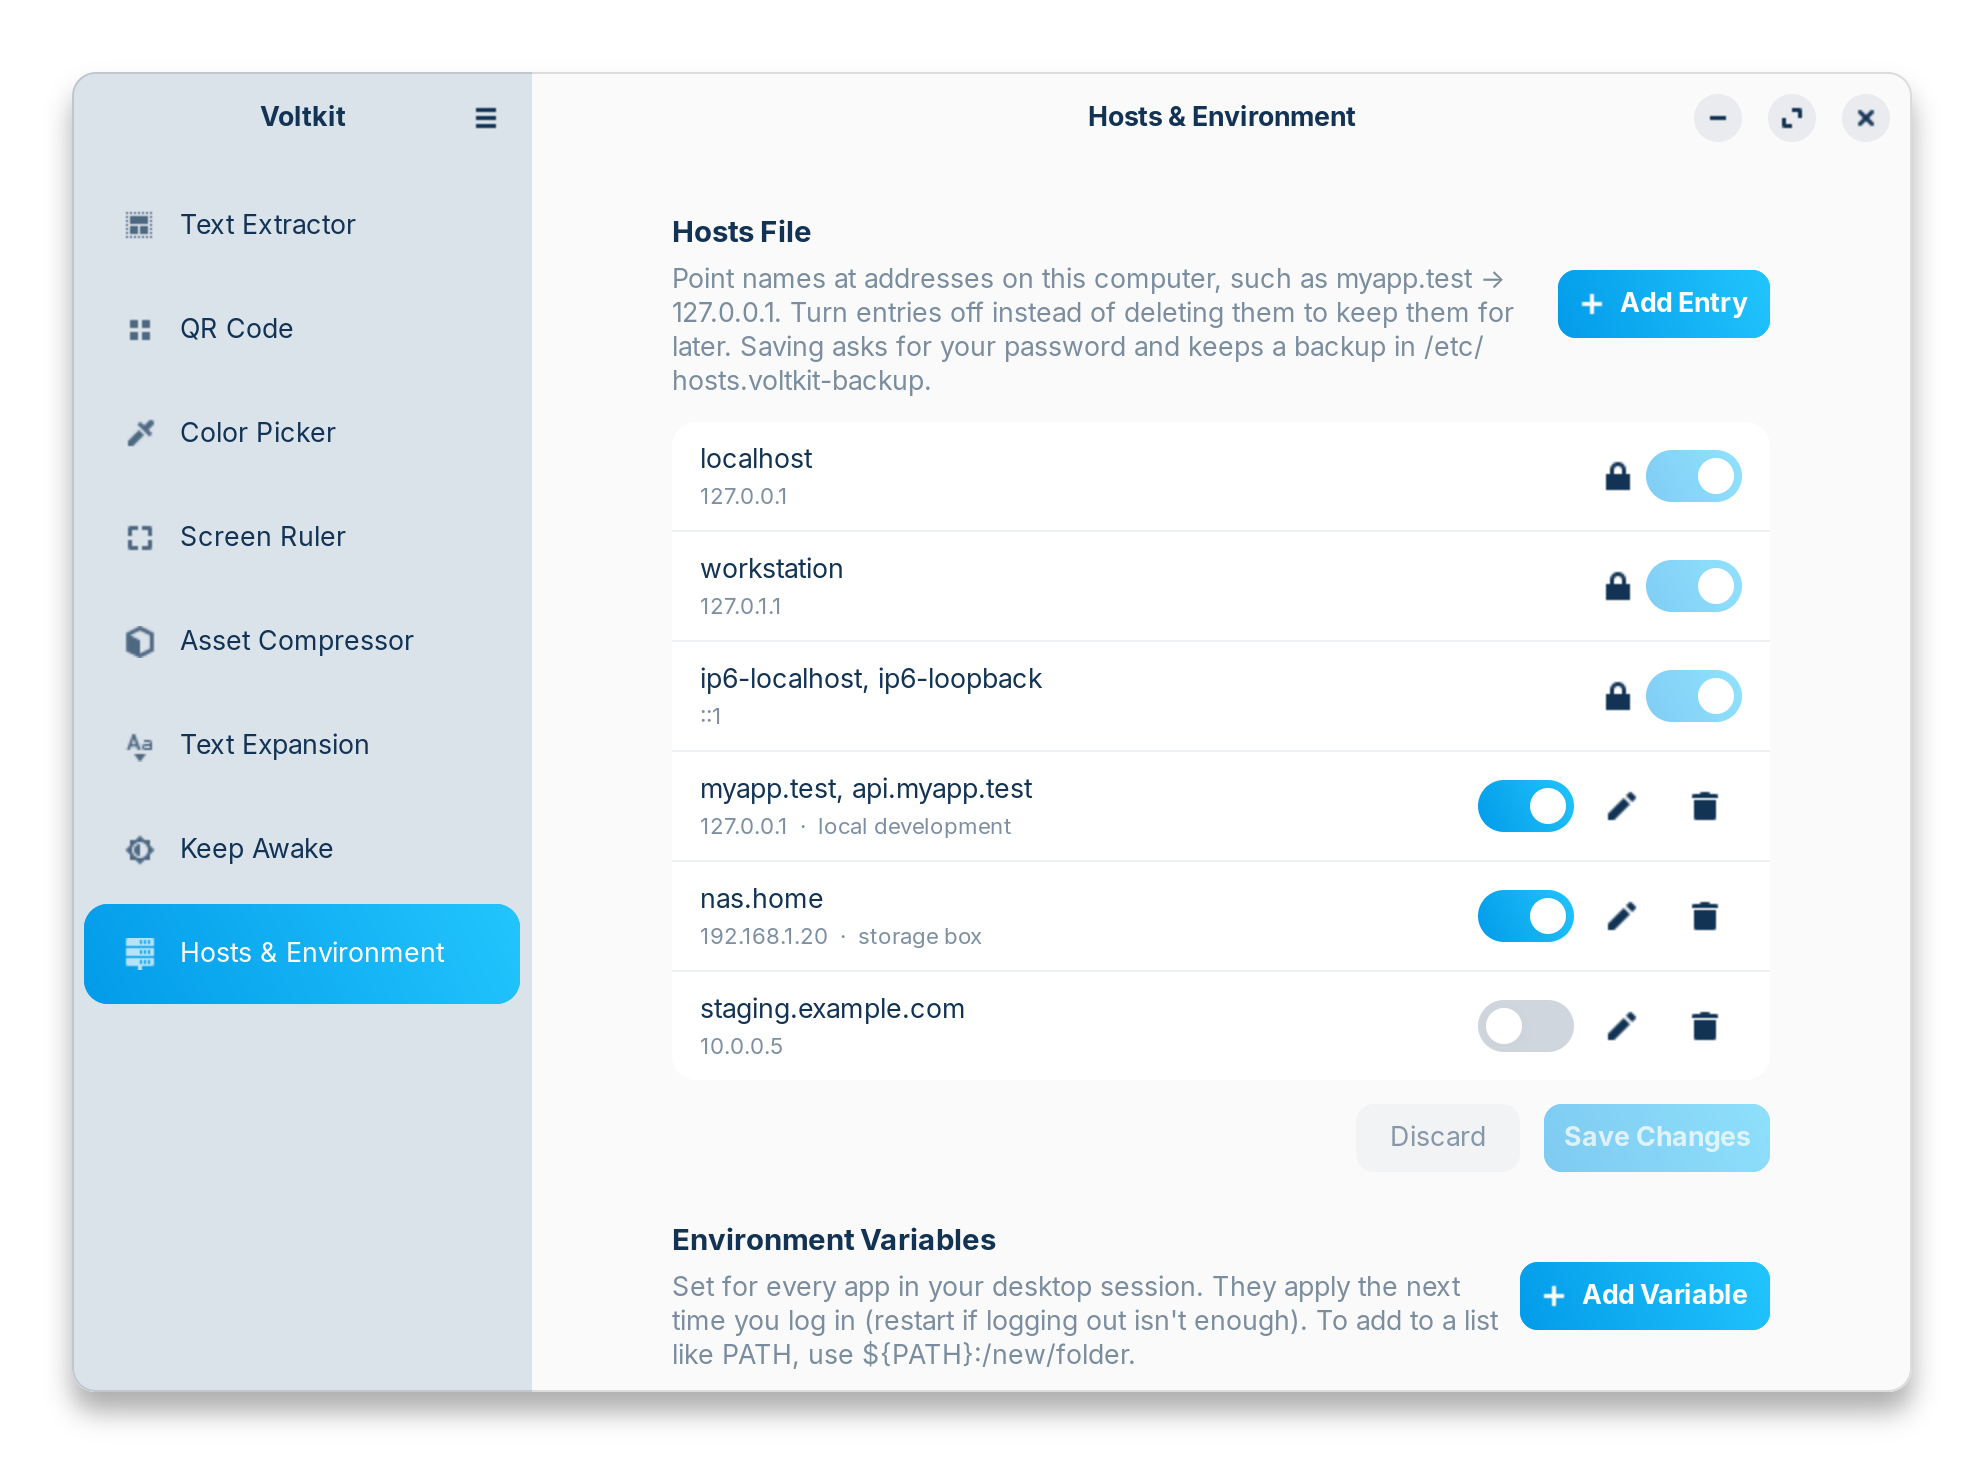
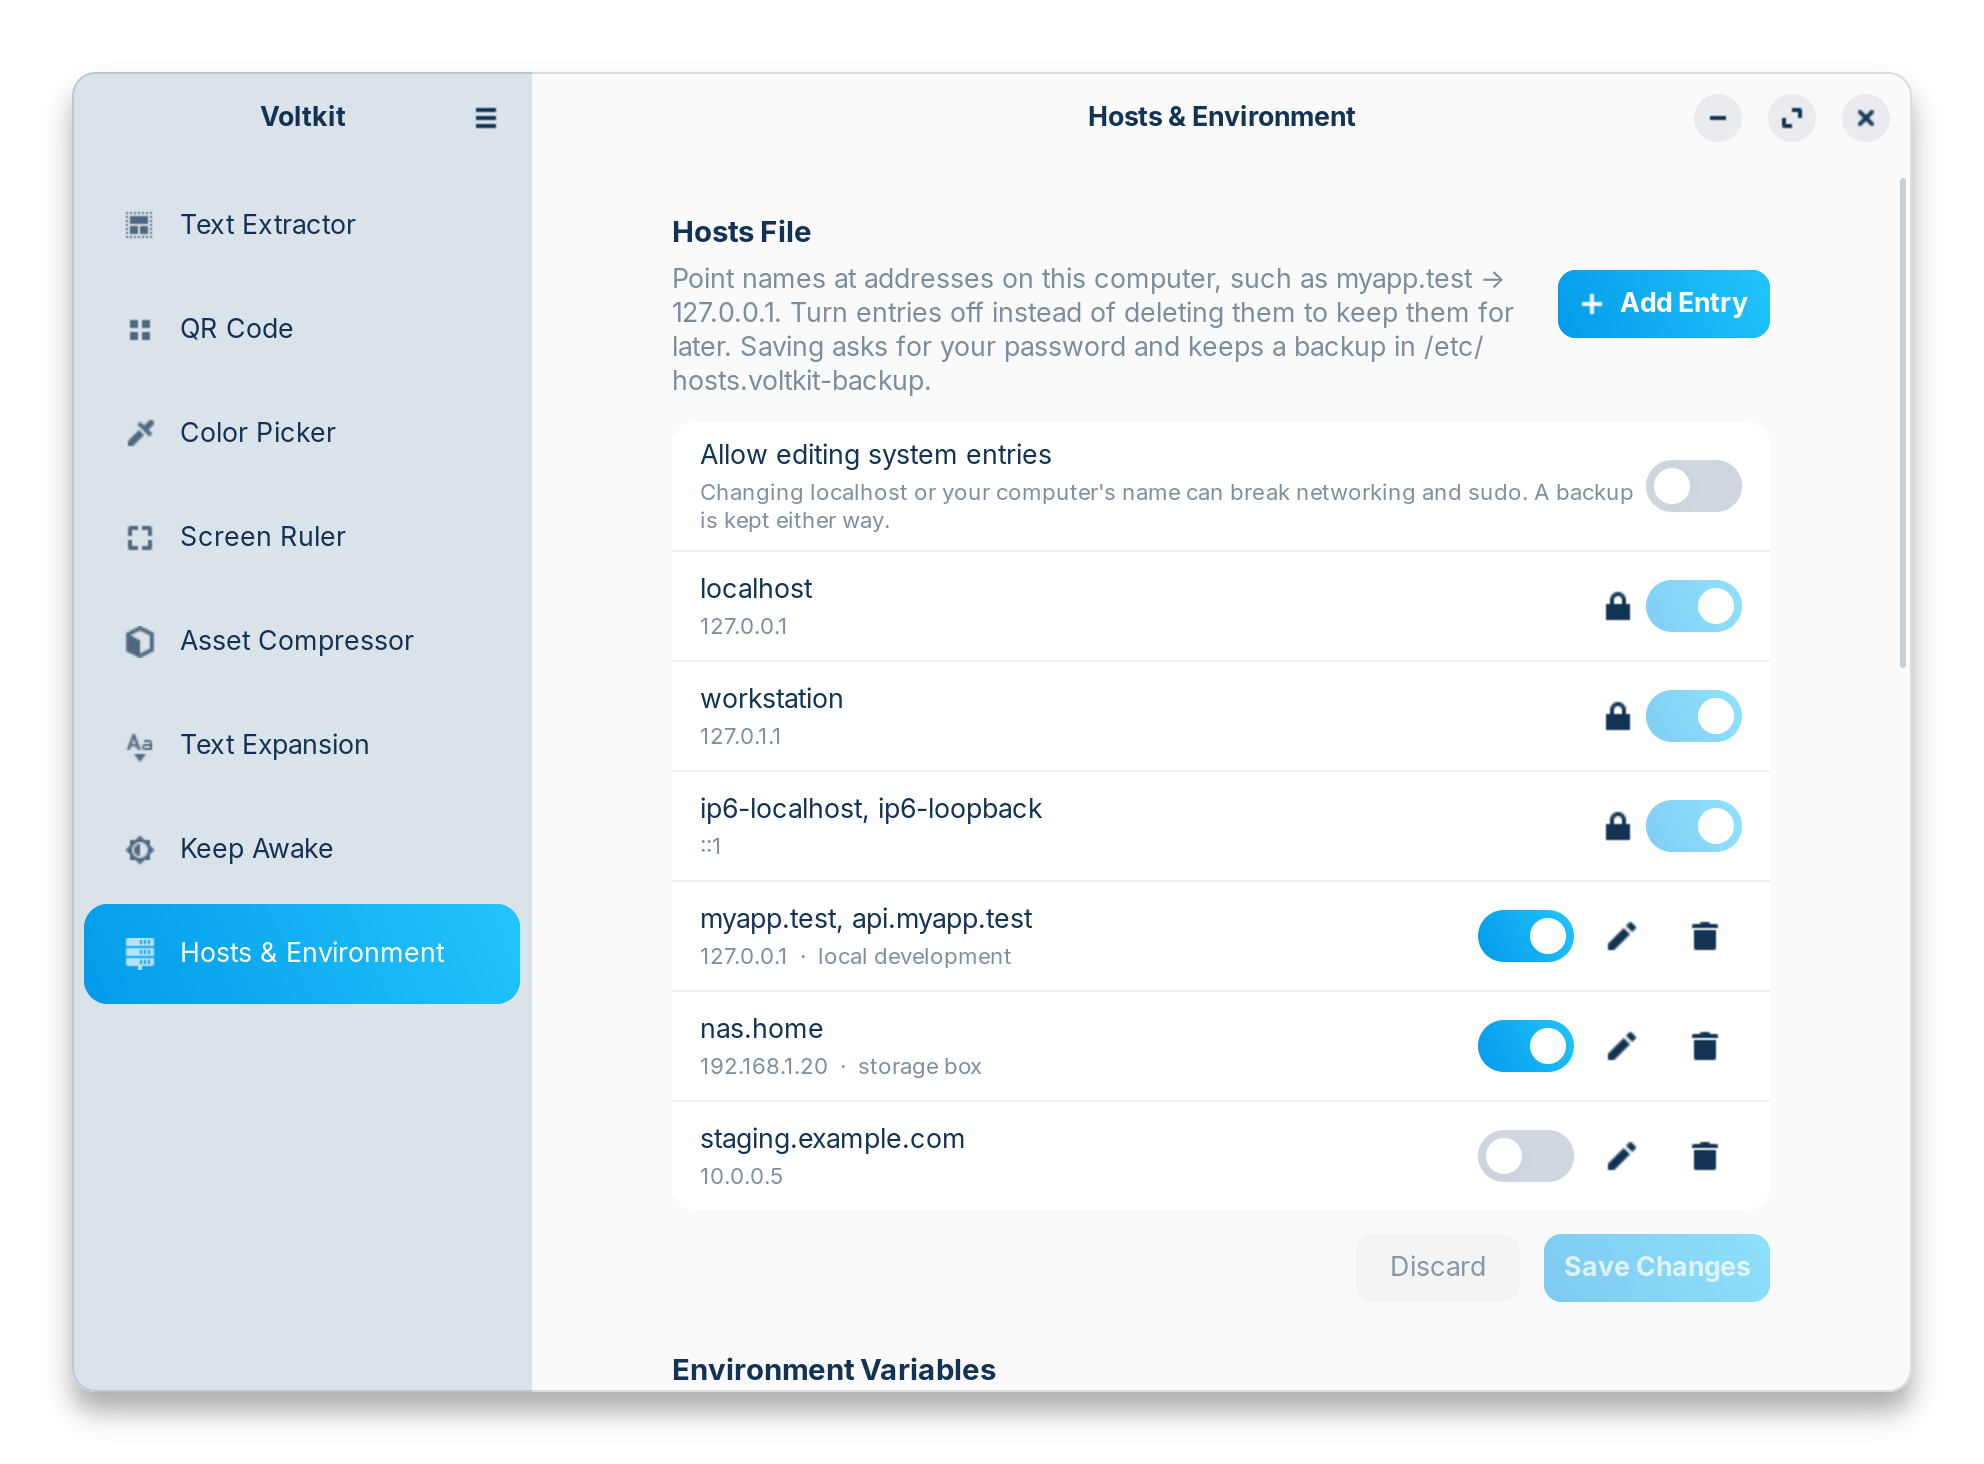
Fix in-app QR scan and Open Ruler; edit system hosts and session vars
QR "Scan from Screen" and OCR "Capture Region" minimized the window
before capturing, and GNOME doesn't raise a minimized window on an
app's own request, so results landed in a hidden window. They now leave
the window in place; GNOME's screenshot tool covers the screen anyway.

"Open Ruler" (and the snippet picker's Open) started a new process
whose window opened behind the others: GNOME raises new windows only
with an activation token. The click's token is now passed along via
XDG_ACTIVATION_TOKEN, and the ruler waits briefly so the control
center has finished minimizing before the screenshot.

Hosts File gains an "Allow editing system entries" switch; system
entries stay locked until it's on. Environment Variables lists the
variables the session already has (filterable, with session plumbing
like DBUS_SESSION_BUS_ADDRESS hidden) and an Override button that opens
the editor with the current value. Screenshots run with a clean
environment so real variables never appear in them.

diff --git a/src/system_ui.rs b/src/system_ui.rs
@@ -17,6 +17,7 @@ pub fn page(toasts: &adw::ToastOverlay) -> gtk::Widget {
     let env = EnvEditor::new(toasts);
     page.add(&hosts.group);
     page.add(&env.group);
+    page.add(&env.session_group);
     // Rows only hold weak references; the page keeps the editors alive.
     page.connect_destroy(move |_| {
         let _ = (&hosts, &env);
@@ -33,6 +34,8 @@ struct HostsEditor {
     /// Unsaved changes: saving needs the administrator password, so edits are
     /// collected and saved together.
     dirty: Cell<bool>,
+    /// System entries are locked unless the user turns this on.
+    unlocked: Cell<bool>,
     save: gtk::Button,
     discard: gtk::Button,
     toasts: adw::ToastOverlay,
@@ -57,9 +60,22 @@ impl HostsEditor {
             rows: RefCell::default(),
             file: RefCell::new(HostsFile::default()),
             dirty: Cell::new(false),
+            unlocked: Cell::new(false),
             save,
             discard,
             toasts: toasts.clone(),
+        });
+        let unlock = adw::SwitchRow::builder()
+            .title("Allow editing system entries")
+            .subtitle("Changing localhost or your computer's name can break networking and sudo. A backup is kept either way.")
+            .build();
+        editor.group.add(&unlock);
+        let weak = Rc::downgrade(&editor);
+        unlock.connect_active_notify(move |s| {
+            with(&weak, |e| {
+                e.unlocked.set(s.is_active());
+                e.rebuild();
+            })
         });
         editor.reload();
 
@@ -117,7 +133,7 @@ impl HostsEditor {
                 .valign(gtk::Align::Center)
                 .tooltip_text(if entry.enabled { "On" } else { "Off" })
                 .build();
-            if entry.is_system() {
+            if entry.is_system() && !self.unlocked.get() {
                 // Shown for completeness, but changing these breaks networking or sudo.
                 row.add_suffix(
                     &gtk::Image::builder()
@@ -232,6 +248,10 @@ impl HostsEditor {
 
 struct EnvEditor {
     group: adw::PreferencesGroup,
+    /// Variables the session already has from elsewhere, offered for overriding.
+    session_group: adw::PreferencesGroup,
+    session_rows: RefCell<Vec<gtk::Widget>>,
+    search: gtk::SearchEntry,
     rows: RefCell<Vec<gtk::Widget>>,
     vars: RefCell<Vec<Var>>,
     toasts: adw::ToastOverlay,
@@ -252,14 +272,63 @@ impl EnvEditor {
             toast(toasts, format!("{e:#}"));
             Vec::new()
         });
-        let editor = Rc::new(Self { group, rows: RefCell::default(), vars: RefCell::new(vars), toasts: toasts.clone() });
+        let search = gtk::SearchEntry::builder().placeholder_text("Filter variables").margin_bottom(6).build();
+        let session_group = adw::PreferencesGroup::builder()
+            .title("Already in Your Session")
+            .description(
+                "Set by the system or your shell. Override one to give it a new value from Voltkit. A value set in \
+                 ~/.bashrc still wins in terminals.",
+            )
+            .build();
+        session_group.add(&search);
+        let editor = Rc::new(Self {
+            group,
+            session_group,
+            session_rows: RefCell::default(),
+            search,
+            rows: RefCell::default(),
+            vars: RefCell::new(vars),
+            toasts: toasts.clone(),
+        });
         editor.rebuild();
         let weak = Rc::downgrade(&editor);
-        add.connect_clicked(move |b| with_env(&weak, |e| e.edit(b, None)));
+        add.connect_clicked(move |b| with_env(&weak, |e| e.edit(b, None, None)));
+        let weak = Rc::downgrade(&editor);
+        editor.search.connect_search_changed(move |_| with_env(&weak, |e| e.rebuild_session()));
         editor
     }
 
+    /// Lists the session's variables that Voltkit doesn't set itself.
+    fn rebuild_session(self: &Rc<Self>) {
+        for row in self.session_rows.borrow_mut().drain(..) {
+            self.session_group.remove(&row);
+        }
+        let query = self.search.text().to_lowercase();
+        let managed: Vec<String> = self.vars.borrow().iter().map(|v| v.name.clone()).collect();
+        let mut session: Vec<(String, String)> = std::env::vars()
+            .filter(|(name, _)| !envvars::is_session_plumbing(name) && !managed.contains(name))
+            .filter(|(name, value)| query.is_empty() || name.to_lowercase().contains(&query) || value.to_lowercase().contains(&query))
+            .collect();
+        session.sort();
+        let mut rows = self.session_rows.borrow_mut();
+        for (name, value) in session {
+            let row = adw::ActionRow::builder()
+                .title(glib::markup_escape_text(&name))
+                .subtitle(glib::markup_escape_text(&value))
+                .subtitle_lines(1)
+                .build();
+            let override_button = gtk::Button::builder().label("Override").valign(gtk::Align::Center).build();
+            row.add_suffix(&override_button);
+            let weak = Rc::downgrade(self);
+            let prefill = Var { name, value };
+            override_button.connect_clicked(move |b| with_env(&weak, |e| e.edit(b, None, Some(prefill.clone()))));
+            self.session_group.add(&row);
+            rows.push(row.upcast());
+        }
+    }
+
     fn rebuild(self: &Rc<Self>) {
+        self.rebuild_session();
         for row in self.rows.borrow_mut().drain(..) {
             self.group.remove(&row);
         }
@@ -285,7 +354,7 @@ impl EnvEditor {
             row.add_suffix(&edit);
             row.add_suffix(&delete);
             let weak = Rc::downgrade(self);
-            edit.connect_clicked(move |b| with_env(&weak, |e| e.edit(b, Some(index))));
+            edit.connect_clicked(move |b| with_env(&weak, |e| e.edit(b, Some(index), None)));
             let weak = Rc::downgrade(self);
             delete.connect_clicked(move |_| with_env(&weak, |e| e.delete(index)));
             self.group.add(&row);
@@ -323,8 +392,10 @@ impl EnvEditor {
         self.toasts.add_toast(undo);
     }
 
-    fn edit(self: &Rc<Self>, parent: &impl IsA<gtk::Widget>, index: Option<usize>) {
-        let existing = index.and_then(|i| self.vars.borrow().get(i).cloned());
+    /// Opens the editor on a Voltkit variable (`index`), or on a new one,
+    /// optionally filled in from a session variable being overridden.
+    fn edit(self: &Rc<Self>, parent: &impl IsA<gtk::Widget>, index: Option<usize>, prefill: Option<Var>) {
+        let existing = index.and_then(|i| self.vars.borrow().get(i).cloned()).or(prefill);
         let others: Vec<String> =
             self.vars.borrow().iter().enumerate().filter(|(i, _)| Some(*i) != index).map(|(_, v)| v.name.clone()).collect();
         let fields = [
@@ -334,7 +405,7 @@ impl EnvEditor {
         let weak = Rc::downgrade(self);
         form_dialog(
             parent.as_ref(),
-            if existing.is_some() { "Edit Variable" } else { "New Variable" },
+            if index.is_some() { "Edit Variable" } else if existing.is_some() { "Override Variable" } else { "New Variable" },
             &fields,
             move |values| {
                 let name = values[0].trim();

diff --git a/src/app.rs b/src/app.rs
@@ -148,6 +148,21 @@ pub(crate) fn shortcut_label(accel: &str) -> String {
     }
 }
 
+/// Starts `voltkit ARGS` for a tool with its own window (ruler, snippet picker),
+/// passing an activation token from the click. GNOME raises a new window only
+/// with such a token; without it the window opened behind the others.
+pub(crate) fn spawn_window_tool(widget: &impl IsA<gtk::Widget>, args: &[&str]) {
+    let Ok(exe) = std::env::current_exe() else { return };
+    let mut cmd = std::process::Command::new(exe);
+    cmd.args(args);
+    if let Some(token) = widget.display().app_launch_context().startup_notify_id(None::<&gio::AppInfo>, &[]) {
+        cmd.env("XDG_ACTIVATION_TOKEN", token.as_str()).env("DESKTOP_STARTUP_ID", token.as_str());
+    }
+    if let Ok(mut child) = cmd.spawn() {
+        std::thread::spawn(move || child.wait());
+    }
+}
+
 pub(crate) fn toast(toasts: &adw::ToastOverlay, msg: impl AsRef<str>) {
     toasts.add_toast(adw::Toast::new(msg.as_ref()));
 }
@@ -308,18 +323,12 @@ fn ocr_page(config: &Config, toasts: &adw::ToastOverlay) -> gtk::Widget {
     let toasts = toasts.clone();
     button.connect_clicked(move |button| {
         let (button, view, toasts, lang) = (button.clone(), view.clone(), toasts.clone(), lang.clone());
-        let window = button.root().and_downcast::<gtk::Window>();
-        // Keep our own window out of the capture.
-        if let Some(w) = &window {
-            w.minimize();
-        }
+        // The window stays put: GNOME won't bring back a minimized window on its
+        // own, so the result would land in a hidden window.
         button.set_sensitive(false);
         glib::spawn_future_local(async move {
             let result = gio::spawn_blocking(move || portal::block_on(ocr::extract_text(&lang))).await;
             button.set_sensitive(true);
-            if let Some(w) = &window {
-                w.present();
-            }
             match result {
                 Ok(Ok(text)) => {
                     view.buffer().set_text(&text);
@@ -529,14 +538,11 @@ fn ruler_page(config: &Config) -> gtk::Widget {
         .css_classes(["pill", "suggested-action"])
         .build();
     open.connect_clicked(|button| {
-        let Ok(exe) = std::env::current_exe() else { return };
-        let window = button.root().and_downcast::<gtk::Window>();
+        // Get the activation token before minimizing, while this window has focus.
+        spawn_window_tool(button, &["ruler"]);
         // Keep this window out of the screenshot the ruler measures on.
-        if let Some(w) = &window {
+        if let Some(w) = button.root().and_downcast::<gtk::Window>() {
             w.minimize();
-        }
-        if let Ok(mut child) = std::process::Command::new(exe).arg("ruler").spawn() {
-            std::thread::spawn(move || child.wait());
         }
     });
     adw::StatusPage::builder()

diff --git a/src/modules/envvars.rs b/src/modules/envvars.rs
@@ -27,6 +27,20 @@ pub fn valid_name(name: &str) -> bool {
         && chars.all(|c| c.is_ascii_alphanumeric() || c == '_')
 }
 
+/// Variables that wire the running session together (bus addresses, display
+/// sockets, session IDs). They're set per login, and overriding them breaks the
+/// session, so the editor doesn't offer them.
+pub fn is_session_plumbing(name: &str) -> bool {
+    const EXACT: &[&str] = &[
+        "DBUS_SESSION_BUS_ADDRESS", "DISPLAY", "WAYLAND_DISPLAY", "XAUTHORITY", "SESSION_MANAGER",
+        "DESKTOP_STARTUP_ID", "XDG_ACTIVATION_TOKEN", "INVOCATION_ID", "JOURNAL_STREAM", "MANAGERPID",
+        "SYSTEMD_EXEC_PID", "PWD", "OLDPWD", "SHLVL", "_", "SSH_AUTH_SOCK", "GPG_AGENT_INFO", "USER",
+        "LOGNAME", "HOME", "SHELL",
+    ];
+    const PREFIXES: &[&str] = &["XDG_SESSION_", "XDG_RUNTIME_DIR", "XDG_SEAT", "XDG_VTNR", "GNOME_", "GDM", "GIO_LAUNCHED", "VOLTKIT_"];
+    EXACT.contains(&name) || PREFIXES.iter().any(|p| name.starts_with(p))
+}
+
 pub fn parse(text: &str) -> Vec<Var> {
     text.lines()
         .map(str::trim)
@@ -76,6 +90,12 @@ mod tests {
     #[test]
     fn values_keep_equals_signs() {
         assert_eq!(parse("JAVA_OPTS=-Xmx=2g\n")[0].value, "-Xmx=2g");
+    }
+
+    #[test]
+    fn hides_session_plumbing() {
+        assert!(is_session_plumbing("DBUS_SESSION_BUS_ADDRESS") && is_session_plumbing("XDG_SESSION_TYPE"));
+        assert!(!is_session_plumbing("PATH") && !is_session_plumbing("EDITOR") && !is_session_plumbing("LANG"));
     }
 
     #[test]

diff --git a/src/snippets_ui.rs b/src/snippets_ui.rs
@@ -7,7 +7,7 @@ use std::rc::{Rc, Weak};
 use adw::prelude::*;
 use gtk::{gio, glib};
 
-use crate::app::{shortcut_label, toast};
+use crate::app::{shortcut_label, spawn_window_tool, toast};
 use crate::config::{Config, Snippet};
 use crate::daemon;
 use crate::modules::snippets;
@@ -27,13 +27,7 @@ pub fn page(config: &Config, toasts: &adw::ToastOverlay) -> gtk::Widget {
 fn usage_group(config: &Config) -> adw::PreferencesGroup {
     let usage = adw::PreferencesGroup::builder().title("Insert Snippets").build();
     let open_picker = gtk::Button::builder().label("Open").valign(gtk::Align::Center).build();
-    open_picker.connect_clicked(|_| {
-        if let Ok(exe) = std::env::current_exe() {
-            let _ = std::process::Command::new(exe).arg("picker").spawn().map(|mut c| {
-                std::thread::spawn(move || c.wait());
-            });
-        }
-    });
+    open_picker.connect_clicked(|button| spawn_window_tool(button, &["picker"]));
     let picker_row = adw::ActionRow::builder()
         .title("Snippet picker")
         .subtitle(format!("Search and paste into any app. Shortcut: {}", shortcut_label(&config.hotkeys.snippets)))

diff --git a/src/qr_ui.rs b/src/qr_ui.rs
@@ -72,18 +72,12 @@ fn scan_group(config: &Config, toasts: &adw::ToastOverlay) -> adw::PreferencesGr
     scan.connect_clicked(move |button| {
         let (button, result, open, text, toasts) =
             (button.clone(), result.clone(), open.clone(), text.clone(), toasts.clone());
-        let window = button.root().and_downcast::<gtk::Window>();
-        // Keep our own window out of the capture.
-        if let Some(w) = &window {
-            w.minimize();
-        }
+        // The window stays put: GNOME won't bring back a minimized window on its
+        // own, so the result would land in a hidden window.
         button.set_sensitive(false);
         glib::spawn_future_local(async move {
             let scanned = gio::spawn_blocking(|| portal::block_on(qr::scan())).await;
             button.set_sensitive(true);
-            if let Some(w) = &window {
-                w.present();
-            }
             match scanned {
                 Ok(Ok(codes)) => {
                     let found = codes.join("\n");

diff --git a/src/ruler.rs b/src/ruler.rs
@@ -24,6 +24,9 @@ pub fn run() {
         // Hold the app open while the screenshot is taken, before any window exists.
         let (app, hold) = (app.clone(), app.hold());
         glib::spawn_future_local(async move {
+            // When opened from the control center, let its window finish
+            // minimizing so it isn't in the screenshot.
+            glib::timeout_future(std::time::Duration::from_millis(400)).await;
             let shot = gio::spawn_blocking(|| portal::block_on(portal::screenshot_full())).await;
             match shot {
                 Ok(Ok(path)) => {
